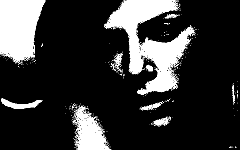
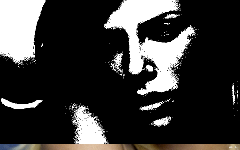
created Gaussian blur alg

Changed region(s): [[0.0, 0.96, 1.0, 1.0]]

diff --git a/src/pf/filter/GaussianBlurFilter.java b/src/pf/filter/GaussianBlurFilter.java
@@ -1,0 +1,115 @@
+package pf.filter;
+
+import pf.image.Image;
+
+public class GaussianBlurFilter extends AbstractFilter {
+	
+	private final int radius;
+	
+	private final double theta;
+	
+	/**
+	 * TODO speed up by precomputing values with a given radius, using Pascal's triangle
+	 * @param radius
+	 * @param theta
+	 */
+	public GaussianBlurFilter(int radius, double theta) {
+		this.radius = radius;
+		this.theta = theta;
+	}
+
+	@Override
+	public void filter(Image image) {
+		double[][] weights = generateGaussian();
+		int[][] newPixels = new int[image.width()][image.height()];
+		for(int y = 0; y < image.height(); y++) {
+			for(int x = 0; x < image.width(); x++) {
+				newPixels[x][y] = calculateBlur(x, y, image, weights);
+			}
+		}
+		
+		// update
+		for(int y = 0; y < image.height(); y++) {
+			for(int x = 0; x < image.width(); x++) {
+				image.set(x, y, newPixels[x][y]);
+			}
+		}
+	}
+	
+	private int calculateBlur(int x0, int y0, Image image, double[][] weights) {
+		int dim = radius * 2 + 1;
+		double[][] localWeights = new double[dim][dim];
+		for(int y = 0; y < dim; y++) {
+			for(int x = 0; x < dim; x++) {
+				localWeights[x][y] = weights[x][y];
+			}
+		}
+		
+		int dx, dy;
+		double r = 0, g = 0, b = 0;
+		for(int y = -radius; y <= radius; y++) {
+			for(int x = -radius; x <= radius; x++) {
+				dx = x0 - x;
+				dy = y0 - y;
+				if(dx >= 0 && dx < image.width() 
+					 & dy >= 0 && dy < image.height()) {
+					int rgb = image.get(dx, dy);
+					r += localWeights[x + radius][y + radius] * red(rgb);
+					g += localWeights[x + radius][y + radius] * green(rgb);
+					b += localWeights[x + radius][y + radius] * blue(rgb);
+				}
+			}
+		}
+		return color(r, g, b);
+	}
+
+	/*
+	 * for radius = 1, theta = 1.5, should return
+	 *	generate gaussian
+	 *	0.04535423476987057 0.05664058479678963 0.04535423476987057 
+	 *	0.05664058479678963 0.0707355302630646 0.05664058479678963 
+	 *	0.04535423476987057 0.05664058479678963 0.04535423476987057 
+	 *	
+	 *	sum: 0.4787148085297054
+	 *	divide by sum
+	 *	0.0947416582101747 0.1183180127031206 0.0947416582101747 
+	 *	0.1183180127031206 0.14776131634681883 0.1183180127031206 
+	 *	0.0947416582101747 0.1183180127031206 0.0947416582101747 
+	 */
+	private double[][] generateGaussian() {
+		int dim = radius * 2 + 1;
+		double[][] weights = new double[dim][dim];
+		for(int y = -radius; y <= radius; y++) {
+			for(int x = -radius; x <= radius; x++) {
+				weights[x + radius][y + radius] = gaussian(x, y);
+				 // System.out.print(weights[x + radius][y + radius] + " ");
+			}
+			 // System.out.println();
+		}
+		// System.out.println();
+		double sum = 0;
+		for(int y = 0; y < dim; y++) {
+			for(int x = 0; x < dim; x++) {
+				sum += weights[x][y];
+			}
+		}
+		// System.out.println("sum: " + sum);
+		for(int y = 0; y < dim; y++) {
+			for(int x = 0; x < dim; x++) {
+				weights[x][y] /= sum;
+				// System.out.print(weights[x][y] + " ");
+			}
+			// System.out.println();
+		}
+		return weights;
+	}
+
+	private double gaussian(int x, int y) {
+		return (1 / (2 * Math.PI * theta * theta)) * Math.pow(Math.E, -((x * x + y * y) / (2 * theta * theta)));
+	}
+
+	public String name() {
+		return "gaussian_blur_" + radius + "_" + theta;
+	}
+	
+}

diff --git a/src/pf/Main.java b/src/pf/Main.java
@@ -5,7 +5,7 @@ import java.io.IOException;
 import javax.swing.JFrame;
 
 import pf.filter.BlueFilter;
-import pf.filter.BlurFilter;
+import pf.filter.GaussianBlurFilter;
 import pf.filter.BrightnessThresholdFilter;
 import pf.filter.CosineRedFilter;
 import pf.filter.DarkFilter;
@@ -59,9 +59,11 @@ public class Main {
 				new BrightnessThresholdFilter(0.6), 
 				new BrightnessThresholdFilter(0.8),
 				new RGBToHSBFilter(),
-				new BlurFilter(1), 
-				new BlurFilter(2),
-				new BlurFilter(3),
+				new GaussianBlurFilter(1, 1.5), 
+				new GaussianBlurFilter(2, 1.5),
+				new GaussianBlurFilter(3, 1.5),
+				new GaussianBlurFilter(3, 4.5),
+				new GaussianBlurFilter(5, 2.4),
 				new InvertBrightnessFilter(),
 				new InvertSaturationFilter(), 
 				new InvertHueFilter(),
@@ -86,17 +88,15 @@ public class Main {
 		int i = 0;
 		for(;;) {
 			imagePanel.image(new Image("images/charlize.jpg"));
+			System.out.println(i + " " + filters[i].name());
 			imagePanel.filter(filters[i]);
-			imagePanel.repaint();
 			try {
-				if(filters[i].name().startsWith("blur")) {
-					Thread.sleep(3000);
-				} else {
-					Thread.sleep(1000);
-				}
+				Thread.sleep(1000);
 			} catch (InterruptedException e) {
 				e.printStackTrace();
 			}
+			imagePanel.repaint();
+			
 			i++;
 			i %= filters.length;
 		}

diff --git a/src/pf/image/Image.java b/src/pf/image/Image.java
@@ -44,6 +44,7 @@ public class Image {
 
 	public void save(String file) {
 		try {
+			System.out.println("Writing file: " + file);
 		    ImageIO.write(bi, "png", new File(file));
 		} catch (IOException e) {
 			e.printStackTrace();
@@ -74,6 +75,7 @@ public class Image {
 			g.dispose();
 		}
 		try {
+			System.out.println("Writing file: " + file);
 			ImageIO.write(newImage, "png", new File(file));
 		} catch (IOException e) {
 			e.printStackTrace();

diff --git a/src/pf/ImagePanel.java b/src/pf/ImagePanel.java
@@ -23,11 +23,11 @@ public class ImagePanel extends JPanel {
     
     public void filter(IFilter filter) {
     	this.filter = filter;
+    	filter.filter(image);
     }
  
     protected void paintComponent(Graphics g) {
         super.paintComponent(g);
-        filter.filter(image);
         g.drawImage(image.image(), 0, 0, this);
         g.setColor(Color.BLACK);
         g.fillRect(0, 0, 200, 22);
